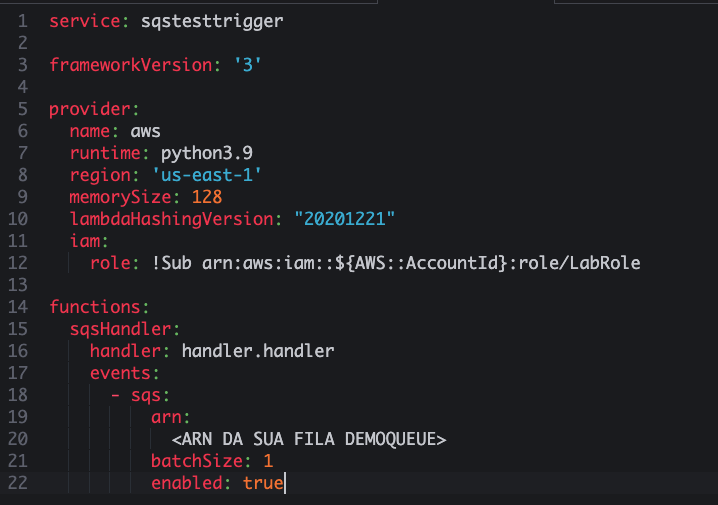
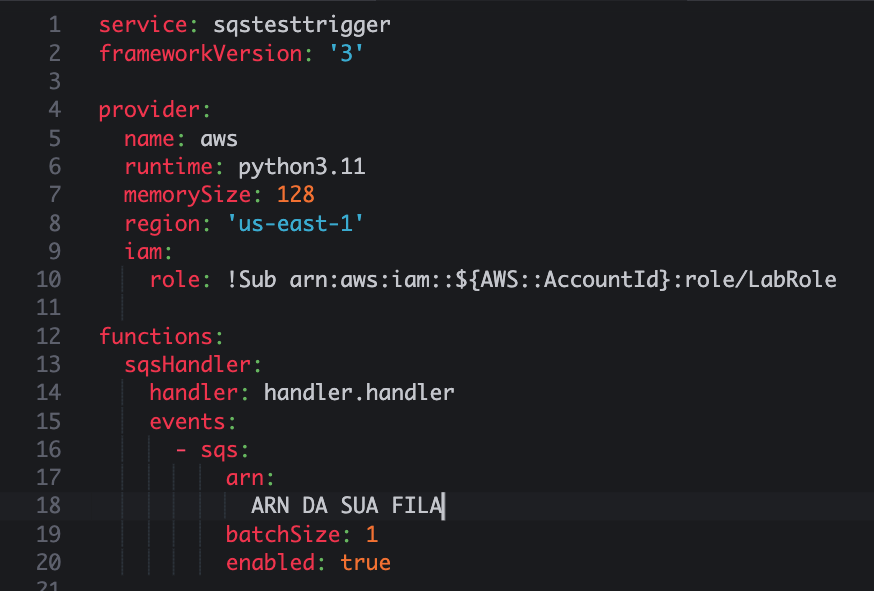
SQS - Lambda

Changed region(s): [[0.0, 0.1782, 0.9499, 1.0], [0.0, 0.0, 0.4596, 0.1782], [0.7967, 0.0, 1.0, 0.0297]]

diff --git a/05-SQS/03 - Lambda/README.md b/05-SQS/03 - Lambda/README.md
@@ -2,14 +2,17 @@
 
 1. No terminal do IDE criado no cloud9 execute o comando `cd ~/environment/fiap-cloud-computing-tutorials/05-SQS/03\ -\ Lambda` para entrar na pasta que fara este exercicio.
 2. Execute o comando `sls create --template "aws-python3"` no terminal para criar os arquivos do serverless framework.
-3. Altere o handler.py para ficar como na imagem. Não esqueça de colocar a URL da sua fila de destino. Abra com o comando `c9 open handler.py`
+3. Altere o handler.py para ficar como na imagem. Não esqueça de colocar a URL da sua fila de destino. Abra com o comando `c9 open handler.py`. Para conseguir a URL da fila de destino você pode utilizar o comando `aws sqs get-queue-url --queue-name demoqueue_dest | jq .QueueUrl`
    ![at](img/lambda-01.png)
-4. Altere o serverless.yml para que fique como na imagem. Para abrir utilize `c9 open serverless.yml `
+4. Altere o serverless.yml para que fique como na imagem. Para abrir utilize `c9 open serverless.yml `. Para pegar o ARN da fila demoqueue utilize o comando abaixo:
+``` shell
+demoqueueURL=`aws sqs get-queue-url --queue-name demoqueue_dest | jq -r .QueueUrl` && aws sqs get-queue-attributes --queue-url $demoqueueURL --attribute-names QueueArn | jq -r .Attributes.QueueArn
+```
    ![at](img/lambda-02.png)
 5. Vá a sua aba do SQS e configure sua demoqueue para ficar como na imagem, isso é necessário pois o tempo de visibilidade padrão estava em 1 segundo para forçar erros no teste da DLQ do ultimo exercicio:
    ![at](img/lambda-03.png)
 6. Execute o comando `sls deploy` no terminal
 7. Altere o arquivo put.py colocando a URL da sua fila demoqueue. Abra com `c9 open put.py`
-8. Execute o comando `python3 put.py` no terminal e observe no painel do sqs que as msgs estão indo para a fila de destino.
+8. Execute o comando `python3 put.py` no terminal e observe no [painel do sqs](https://us-east-1.console.aws.amazon.com/sqs/v3/home?region=us-east-1#/queues) que as mensagens estão indo para a fila de destino.
    ![at](img/lambda-04.png)
-9. Para excluir a stack do lambda execute o comando `sls remove` no terminal
+9.  Para excluir a stack do lambda execute o comando `sls remove` no terminal.
